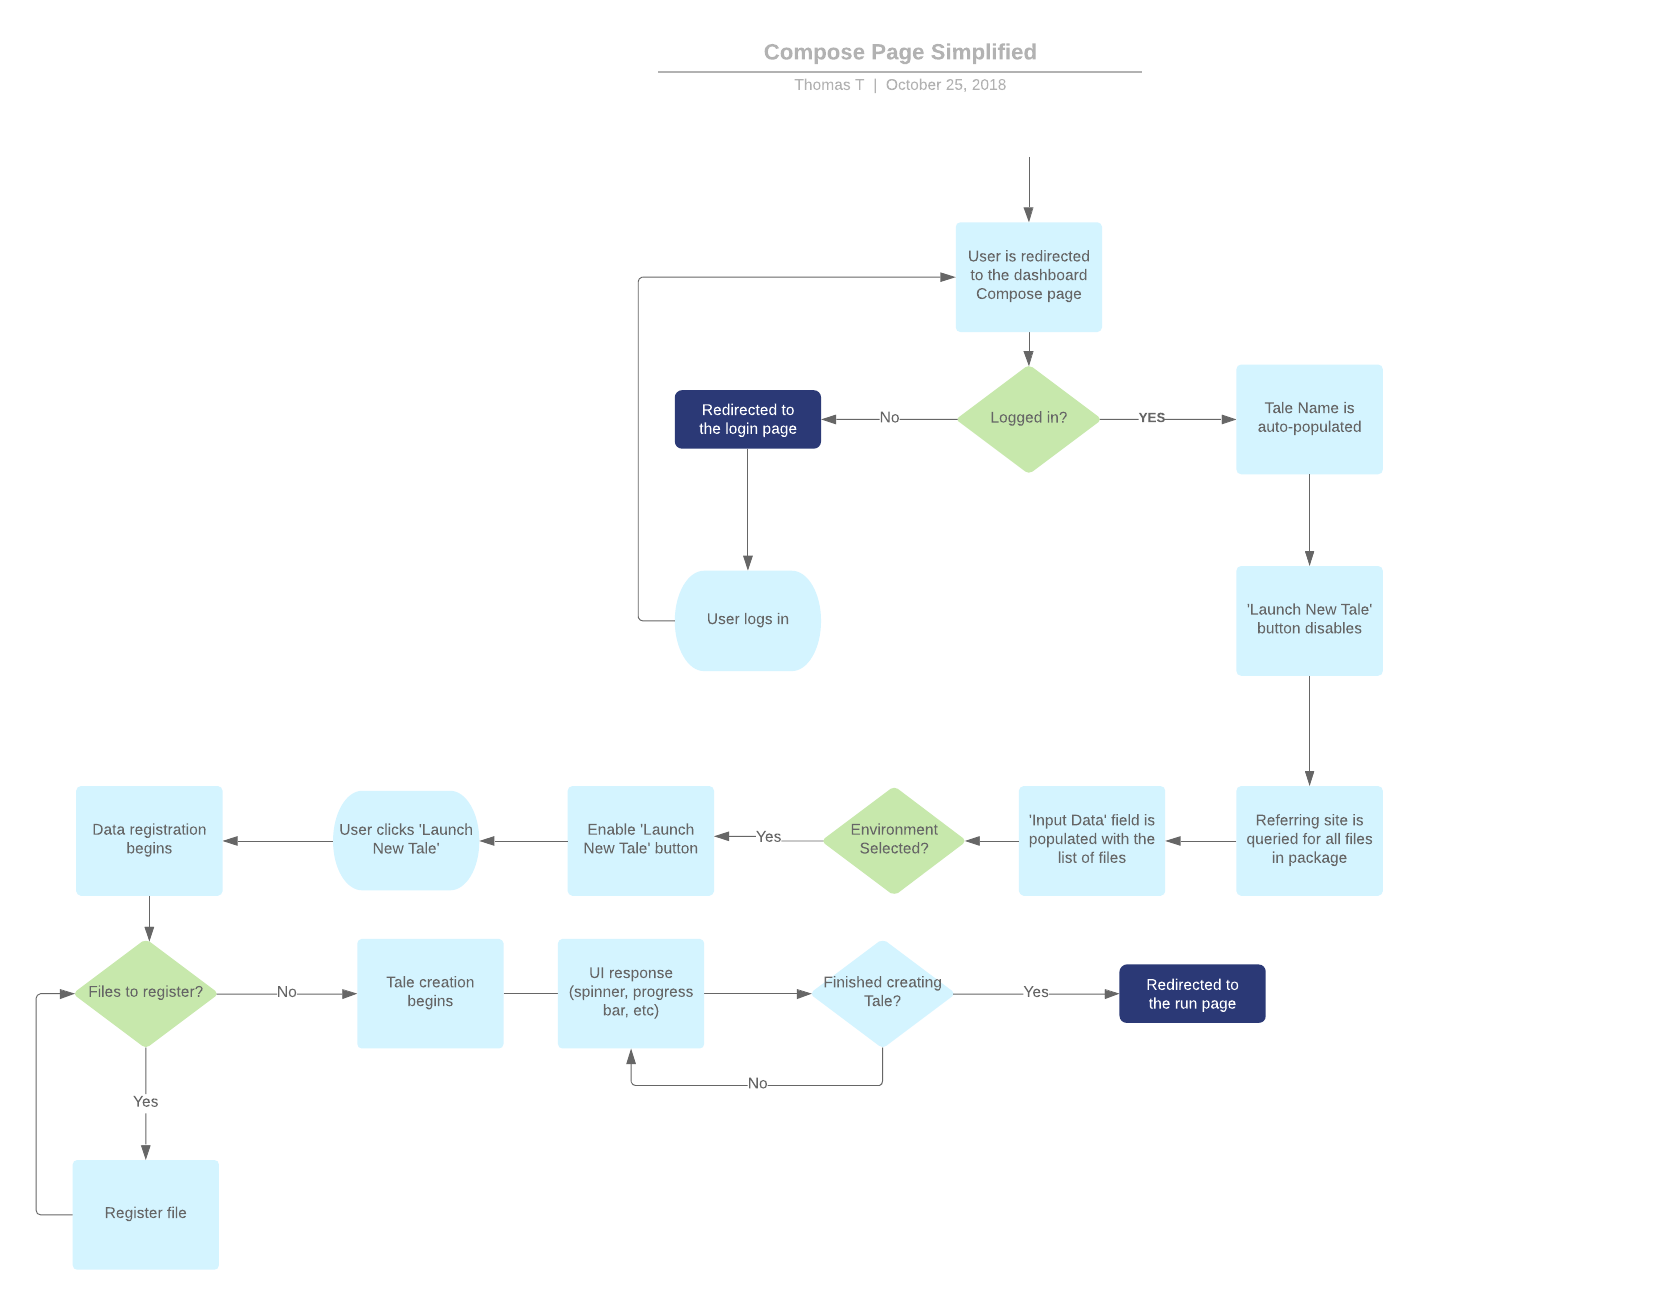
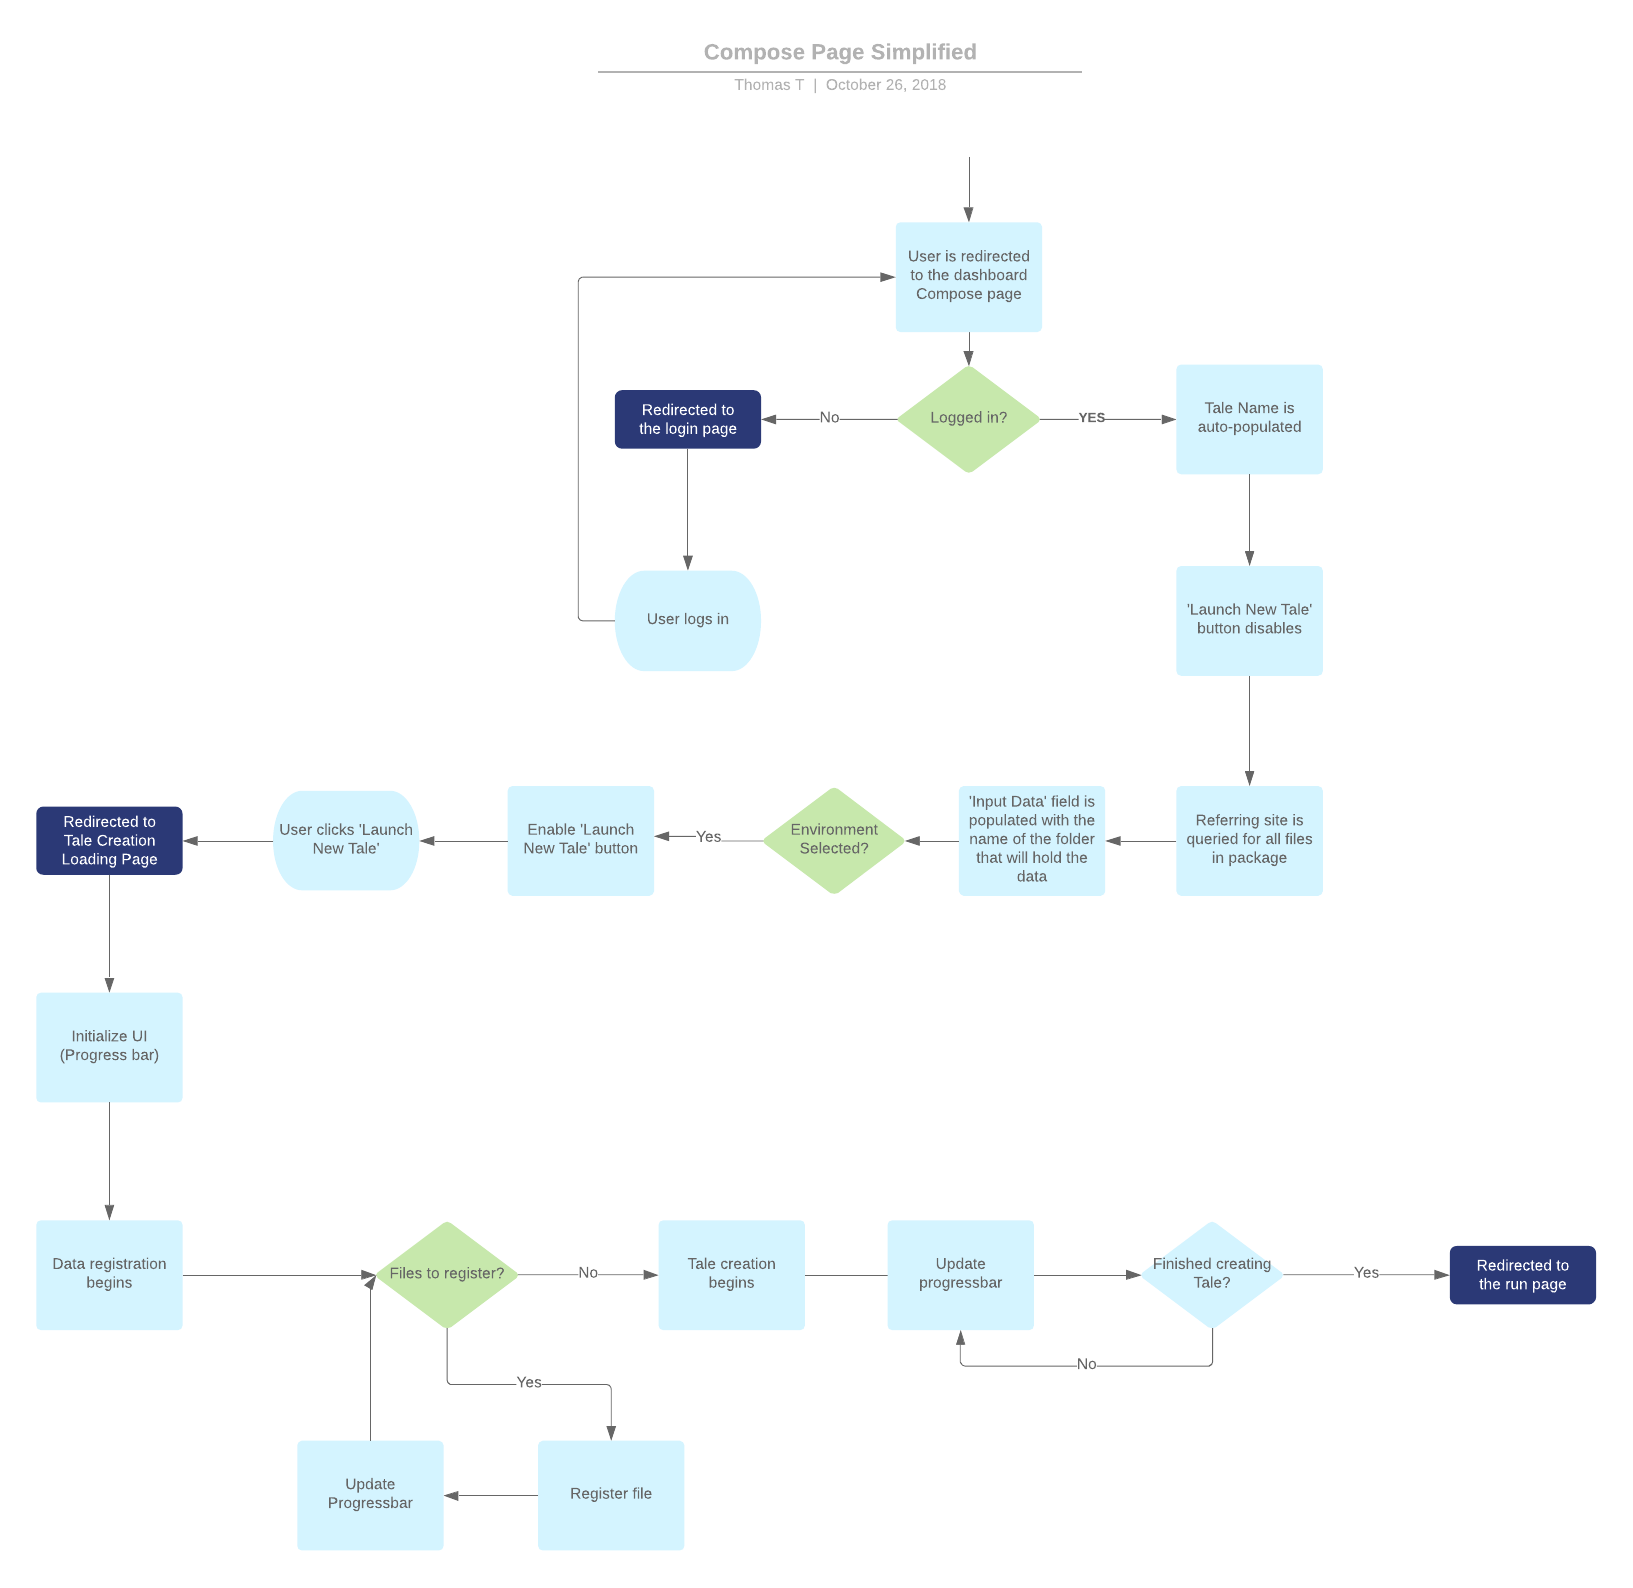
Expand on Mockup 3
This is an expansion on the third mockup. I added three images for each phase of Tale creation: initial landing, ready to launch, and the transition page.

diff --git a/development/mockups/tale-importing/index.rst b/development/mockups/tale-importing/index.rst
@@ -104,14 +104,30 @@ Proposed Mockup 3: Use the Compose Page
 .. image:: images/compose_no_loader.png
 
 
-This mockup uses the Compose page like the Mockups 1 & 2 but doesn't include
-the loading icons. The loading icon idea doesn't scale nicely with large datasets, 
-and we can convey the same information in other ways (like bolding the filenames).
+.. image:: images/ready_launch.png
 
-In this mockup, we let the user click `Create New Tale` before any data is registered 
-and display our current spinner while data registration and Tale creation happens. 
-We can also take it a step further and show a progress bar, given that we're using the
-job system.
+
+.. image:: images/compose_transition.png
+
+
+This mockup uses the Compose page like the Mockups 1 & 2 but doesn't include
+the loading icons. Instead, we enable the Launch New Tale button and perform data 
+registration on the click. Once clicked, the page transitions to the Tale creation
+transition page, with an added progress bar. 
+
+
+Because data registration doesn't happen until the user leaves the page, we need to
+show what their filesystem would look like as if it had registered. The behavior 
+of the Compose page is to show the outermost selected folder and does not include 
+subfiles unless they are individually picked. When registering a dataset, we use the name
+of the dataset as the folder name. This allows us to query DataONE for the name of the 
+package and we can show it in the Input data list.
+
+
+Note that the user will not see their data in the File Explorer. They are still 
+however, free to add any existing data from Home and Data. Showing the dataset in the 
+File Explorer requires the incoming data package to be registered. Since we're doing 
+this after the user has clicked Launch New Tale, the data won't be shown.
 
 
 .. image:: images/compose_no_loader_pfd.png
